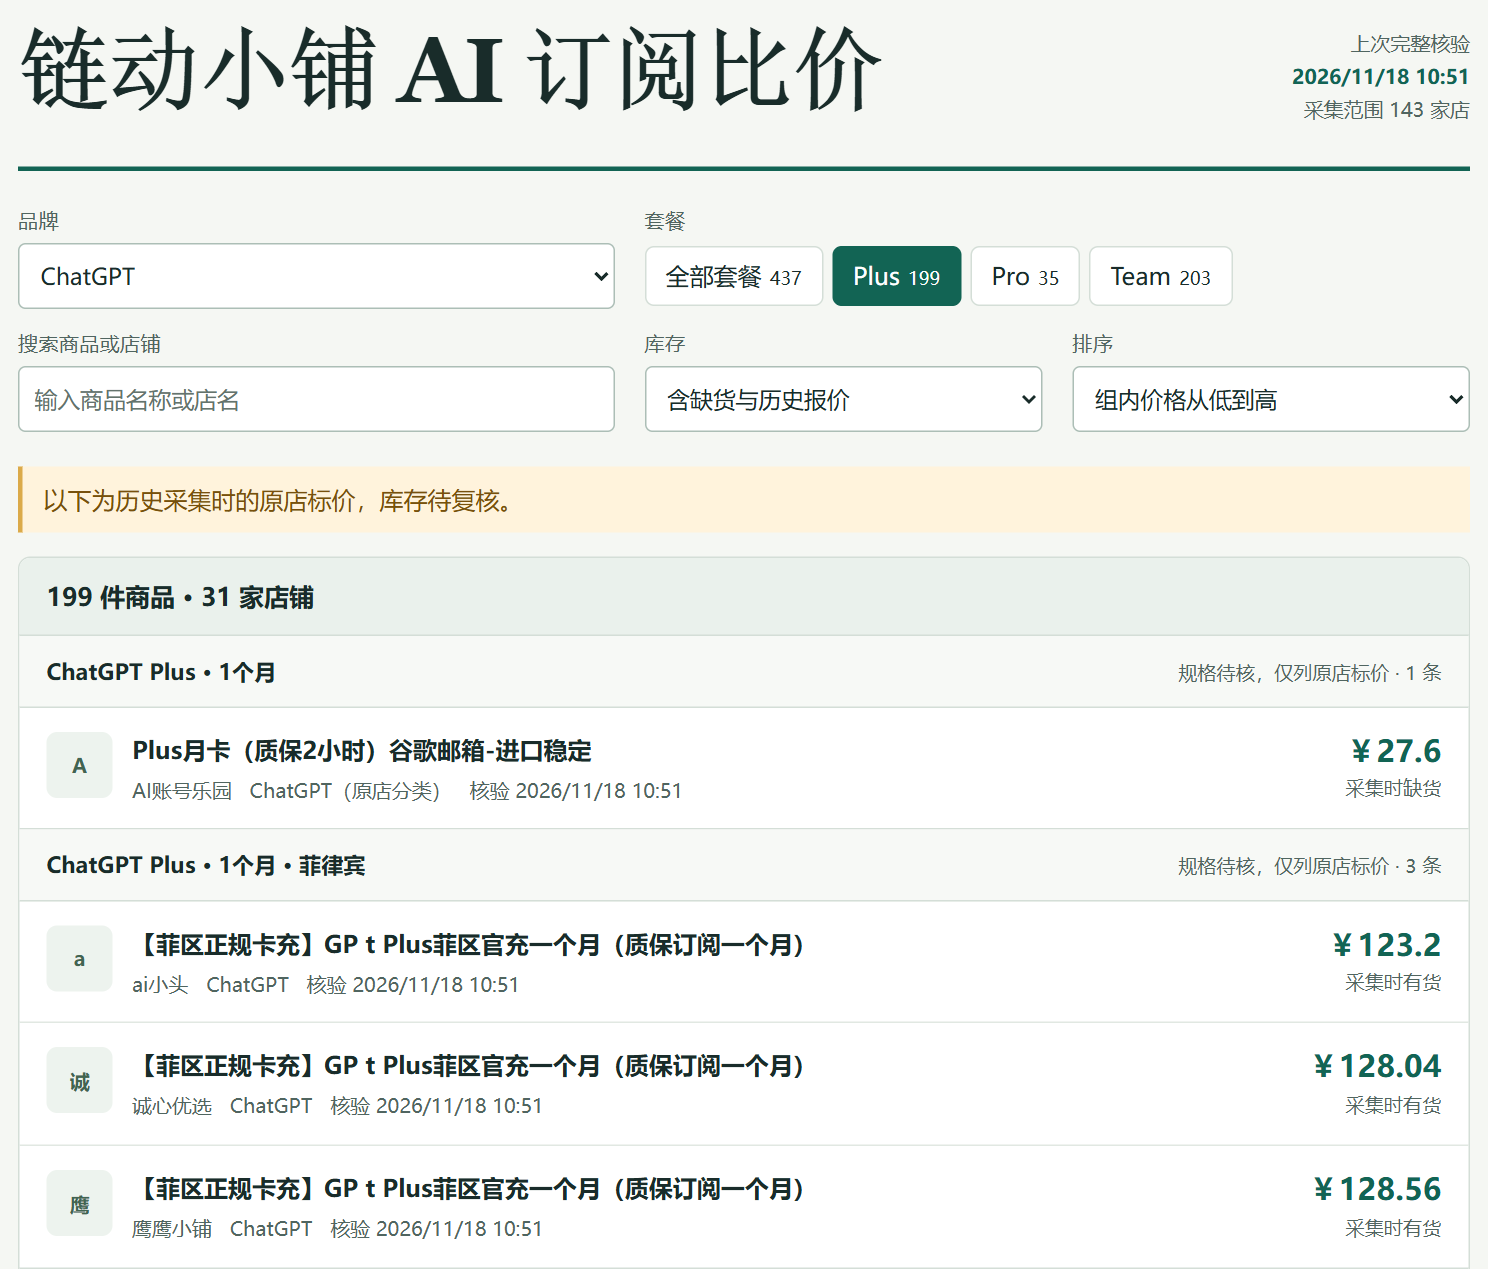
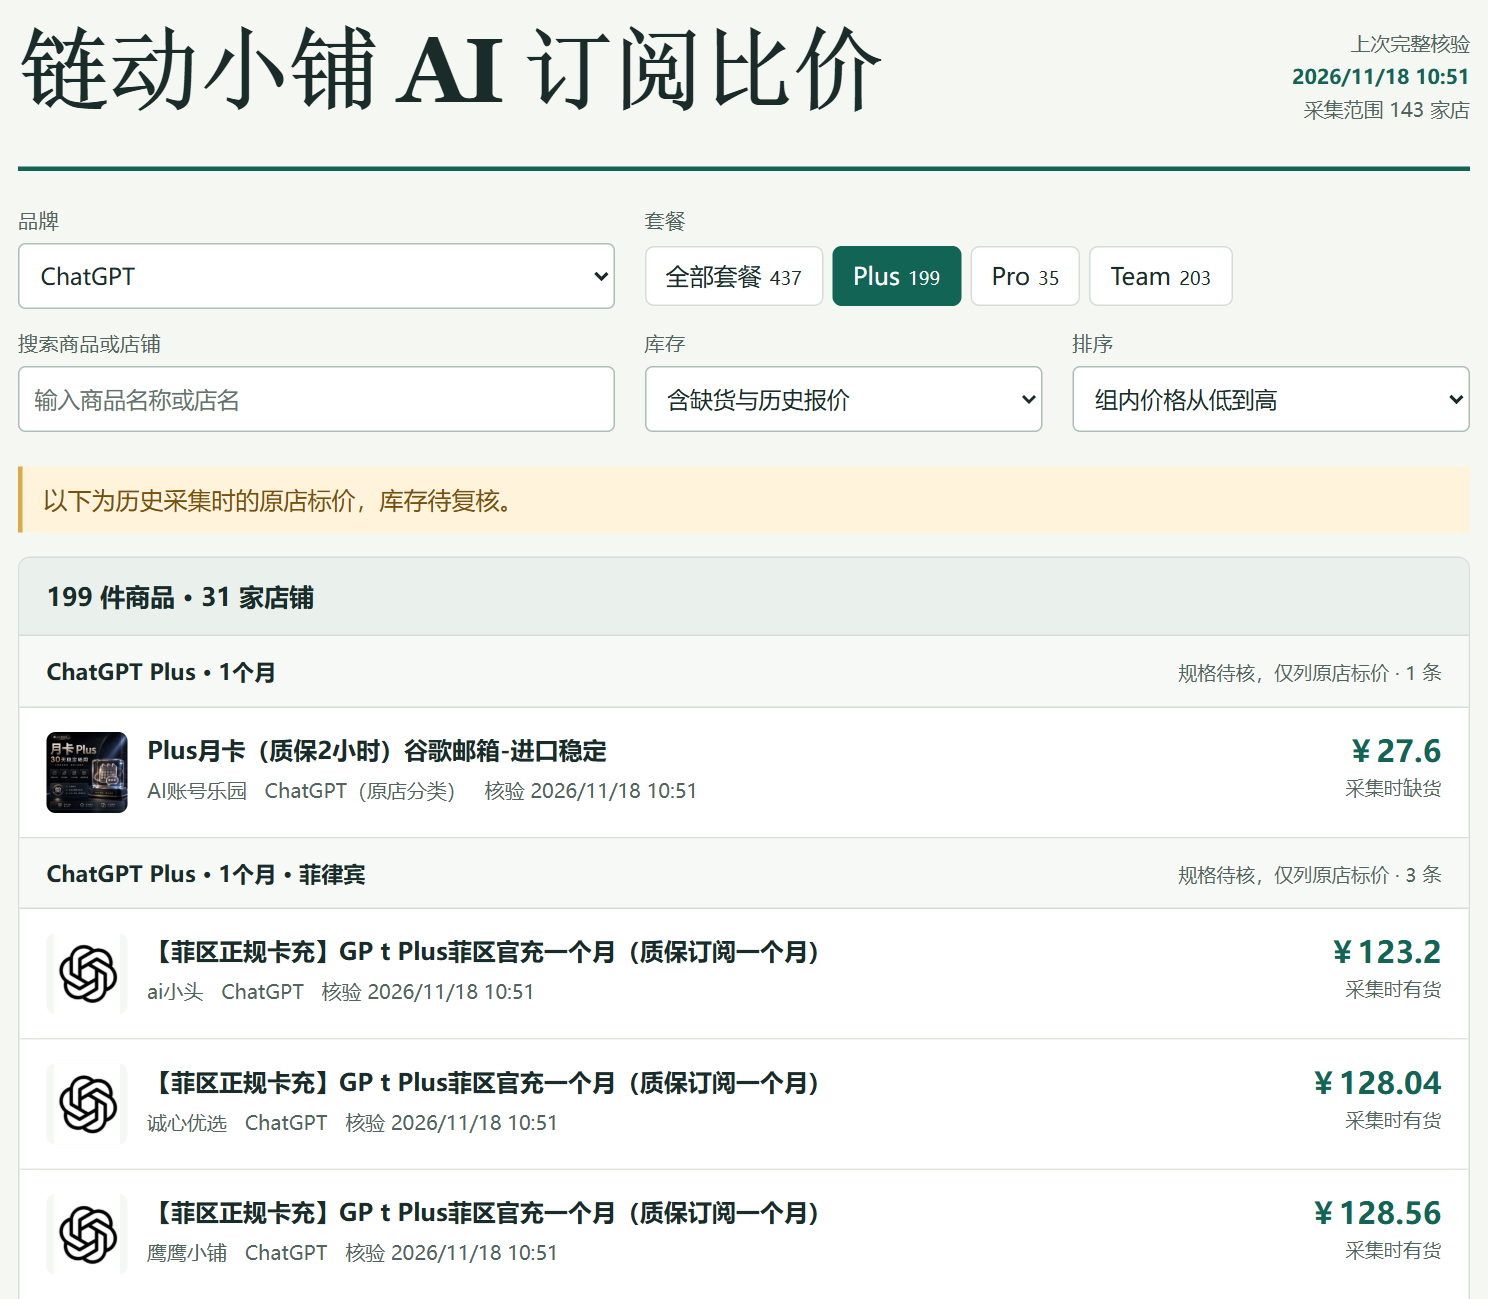
Show the observed Plus price spread and original product images

diff --git a/docs/demo.html b/docs/demo.html
@@ -5,7 +5,7 @@
   <meta name="viewport" content="width=device-width, initial-scale=1">
   <meta name="color-scheme" content="light">
   <meta name="referrer" content="no-referrer">
-  <meta http-equiv="Content-Security-Policy" content="default-src 'none'; script-src 'sha256-ZO643cE5pEGqpCYQdGrXomzEZ9VVKvLS6Y0FzKj2aZk=' 'sha256-1Ne9otCPCXiN4uFDKmmG3ICIDqDtHDYCyNCGFtEiPgg='; style-src 'sha256-+bu/IV7wrMc/Kme2MGcbqLk7O9O2+GU6b0CoQDU5uuU='; base-uri 'none'; form-action 'none'; connect-src 'none'">
+  <meta http-equiv="Content-Security-Policy" content="default-src 'none'; script-src 'sha256-4/ga//w46F/07zQa7W1VcMTDFgMuvN0MT0EpK0VVOfM=' 'sha256-1Ne9otCPCXiN4uFDKmmG3ICIDqDtHDYCyNCGFtEiPgg='; style-src 'sha256-ZVIdAD9f/VZ/cohG9BWlkn/PSxE8/9UhzEuhzIzScAs='; base-uri 'none'; form-action 'none'; connect-src 'none'">
   <title>链动小铺 AI 订阅比价</title>
   <style>:root {
   font: 16px/1.5 "DM Sans", "Microsoft YaHei", system-ui, sans-serif;
@@ -52,10 +52,10 @@ h2 { font-size: 1.04rem; }
 .group-header h3 { margin: 0; font-size: .92rem; font-weight: 650; line-height: 1.5; overflow-wrap: anywhere; }
 .group-header > span { flex-shrink: 0; max-width: 47%; font-size: .8rem; color: var(--muted); text-align: right; }
 ul { margin: 0; padding: 0; list-style: none; }
-.quote { display: grid; grid-template-columns: 44px minmax(0,1fr) max-content; align-items: start; gap: 13px; padding: 16px 18px; }
+.quote { display: grid; grid-template-columns: minmax(0,1fr) max-content; align-items: start; gap: 13px; padding: 16px 18px; }
+.quote.with-thumb { grid-template-columns: 54px minmax(0,1fr) max-content; }
 .quote + .quote { border-top: 1px solid #e1e8e2; }
-.thumb { display: grid; place-items: center; position: relative; width: 44px; height: 44px; overflow: hidden; background: #edf3ee; color: #426451; border-radius: 7px; font-size: .82rem; font-weight: 650; }
-.thumb img { position: absolute; inset: 0; width: 100%; height: 100%; object-fit: cover; }
+.thumb { display: block; width: 54px; height: 54px; object-fit: contain; border-radius: 6px; background: #f5f7f3; }
 .title { font-weight: 650; overflow-wrap: anywhere; }
 a { color: var(--green); text-underline-offset: 3px; }
 .title a { color: inherit; text-decoration: none; }
@@ -83,9 +83,11 @@ footer { margin: 18px 0 32px; color: var(--muted); font-size: .82rem; }
   .plan-option { padding: 4px 9px; }
   .group-header { padding: 10px 11px; }
   .result-header { flex-wrap: wrap; padding: 11px; }
-  .quote { grid-template-columns: 32px minmax(0, 1fr); padding: 13px 11px; gap: 4px 9px; }
-  .thumb { width: 32px; height: 32px; }
-  .numbers { grid-column: 2; display: flex; align-items: baseline; flex-wrap: wrap; gap: 8px; text-align: left; }
+  .quote { grid-template-columns: minmax(0, 1fr); padding: 13px 11px; gap: 4px 9px; }
+  .quote.with-thumb { grid-template-columns: 40px minmax(0, 1fr); }
+  .thumb { width: 40px; height: 40px; }
+  .numbers { display: flex; align-items: baseline; flex-wrap: wrap; gap: 8px; text-align: left; }
+  .with-thumb > .numbers { grid-column: 2; }
 }
 </style>
[1 lines of base64/hex data omitted]
@@ -275,17 +277,19 @@ function setPlanOptions(available, brandMatches) {
 
 function quoteRow(product, now) {
   const item = el('li', 'quote');
-  const thumb = el('span', 'thumb', (product.shopName || '店').slice(0, 1));
-  thumb.setAttribute('aria-hidden', 'true');
   const imageUrl = safeUrl(product.imageUrl, imageHosts);
   if (imageUrl) {
-    const img = el('img');
+    const img = el('img', 'thumb');
     img.alt = '';
     img.loading = 'lazy';
     img.referrerPolicy = 'no-referrer';
-    img.addEventListener('error', () => img.remove(), { once: true });
+    img.addEventListener('error', () => {
+      img.remove();
+      item.classList.remove('with-thumb');
+    }, { once: true });
+    item.classList.add('with-thumb');
+    item.append(img);
     img.src = imageUrl;
-    thumb.append(img);
   }
   const details = el('div');
   const title = el('div', 'title');
@@ -326,7 +330,7 @@ function quoteRow(product, now) {
   else if (product.inStock === false) inventory = '暂不可购';
   else inventory = '库存未知';
   numbers.append(el('span', 'price', price), el('span', 'inventory', inventory));
-  item.append(thumb, details, numbers);
+  item.append(details, numbers);
   return item;
 }
 

diff --git a/site/style.css b/site/style.css
@@ -43,10 +43,10 @@ h2 { font-size: 1.04rem; }
 .group-header h3 { margin: 0; font-size: .92rem; font-weight: 650; line-height: 1.5; overflow-wrap: anywhere; }
 .group-header > span { flex-shrink: 0; max-width: 47%; font-size: .8rem; color: var(--muted); text-align: right; }
 ul { margin: 0; padding: 0; list-style: none; }
-.quote { display: grid; grid-template-columns: 44px minmax(0,1fr) max-content; align-items: start; gap: 13px; padding: 16px 18px; }
+.quote { display: grid; grid-template-columns: minmax(0,1fr) max-content; align-items: start; gap: 13px; padding: 16px 18px; }
+.quote.with-thumb { grid-template-columns: 54px minmax(0,1fr) max-content; }
 .quote + .quote { border-top: 1px solid #e1e8e2; }
-.thumb { display: grid; place-items: center; position: relative; width: 44px; height: 44px; overflow: hidden; background: #edf3ee; color: #426451; border-radius: 7px; font-size: .82rem; font-weight: 650; }
-.thumb img { position: absolute; inset: 0; width: 100%; height: 100%; object-fit: cover; }
+.thumb { display: block; width: 54px; height: 54px; object-fit: contain; border-radius: 6px; background: #f5f7f3; }
 .title { font-weight: 650; overflow-wrap: anywhere; }
 a { color: var(--green); text-underline-offset: 3px; }
 .title a { color: inherit; text-decoration: none; }
@@ -74,7 +74,9 @@ footer { margin: 18px 0 32px; color: var(--muted); font-size: .82rem; }
   .plan-option { padding: 4px 9px; }
   .group-header { padding: 10px 11px; }
   .result-header { flex-wrap: wrap; padding: 11px; }
-  .quote { grid-template-columns: 32px minmax(0, 1fr); padding: 13px 11px; gap: 4px 9px; }
-  .thumb { width: 32px; height: 32px; }
-  .numbers { grid-column: 2; display: flex; align-items: baseline; flex-wrap: wrap; gap: 8px; text-align: left; }
+  .quote { grid-template-columns: minmax(0, 1fr); padding: 13px 11px; gap: 4px 9px; }
+  .quote.with-thumb { grid-template-columns: 40px minmax(0, 1fr); }
+  .thumb { width: 40px; height: 40px; }
+  .numbers { display: flex; align-items: baseline; flex-wrap: wrap; gap: 8px; text-align: left; }
+  .with-thumb > .numbers { grid-column: 2; }
 }

diff --git a/site/app.js b/site/app.js
@@ -108,17 +108,19 @@ function setPlanOptions(available, brandMatches) {
 
 function quoteRow(product, now) {
   const item = el('li', 'quote');
-  const thumb = el('span', 'thumb', (product.shopName || '店').slice(0, 1));
-  thumb.setAttribute('aria-hidden', 'true');
   const imageUrl = safeUrl(product.imageUrl, imageHosts);
   if (imageUrl) {
-    const img = el('img');
+    const img = el('img', 'thumb');
     img.alt = '';
     img.loading = 'lazy';
     img.referrerPolicy = 'no-referrer';
-    img.addEventListener('error', () => img.remove(), { once: true });
+    img.addEventListener('error', () => {
+      img.remove();
+      item.classList.remove('with-thumb');
+    }, { once: true });
+    item.classList.add('with-thumb');
+    item.append(img);
     img.src = imageUrl;
-    thumb.append(img);
   }
   const details = el('div');
   const title = el('div', 'title');
@@ -159,7 +161,7 @@ function quoteRow(product, now) {
   else if (product.inStock === false) inventory = '暂不可购';
   else inventory = '库存未知';
   numbers.append(el('span', 'price', price), el('span', 'inventory', inventory));
-  item.append(thumb, details, numbers);
+  item.append(details, numbers);
   return item;
 }
 

diff --git a/README.md b/README.md
@@ -2,9 +2,9 @@
 
 <h1>链动小铺 AI 订阅比价</h1>
 
-<img src="docs/media/hero.svg" width="760" alt="候选库有 535 个店铺入口。11 月 18 日定向采集覆盖 143 家店，其中 42 家有可归入 ChatGPT Plus、Pro 或 Team 的商品">
+<img src="docs/media/hero.svg" width="760" alt="买 Plus 前，先比价。2026 年 11 月 18 日，菲律宾区 Plus 一个月的同标题商品，两家店分别标价 ¥123.20 和 ¥128.56，相差 ¥5.36。">
 
-<p><strong>在链动小铺买 ChatGPT，哪家卖得便宜，哪家还有货？选 Plus、Pro 或 Team，按同一规格比较多家商户的报价。</strong></p>
+<p><strong>下次买 ChatGPT Plus、Pro 或 Team，先把链动小铺多家商户的同规格报价从低到高排一遍，看看便宜的那家还有没有货。</strong></p>
 
 <p><a href="docs/shops.md">查看 20 家试点店</a> · <a href="docs/demo.html">试用比价界面</a> · <a href="docs/chatgpt-plans.md">查看历史统计</a> · <a href="docs/operations.md">自建比价页</a></p>
 
@@ -16,9 +16,9 @@
 
 在诚心优选、玄奇仙市等链动小铺店铺之间挑套餐，光搜「Team」会碰到 5×、10× 和期限不同的席位；只看「Plus」，又容易拿月付和年付比价格。这个工具把多家商户的公开报价放到一页，保留原店标题、库存和核验时间。选好套餐就能在同规格内按价排序，也可以点商品标题回原店核对。[查看试点店铺名单及原店入口](docs/shops.md)
 
-![11 月 18 日归档的真实 Plus 报价。菲律宾一个月分类下，多家链动小铺商户的原店标价按价格排列。](docs/media/price-comparison.png)
+![11 月 18 日的 Plus 报价列表。每条报价旁显示原店商品图，三家店的菲律宾区月卡按标价从低到高排列。](docs/media/price-comparison.png)
 
-**真实报价截图，采集于 2026 年 11 月 18 日。** 三家商户当时都列出了同标题的菲律宾区 Plus 一个月商品：ai小头 ¥123.20、诚心优选 ¥128.04、鹰鹰小铺 ¥128.56。页面保留各店标价和当时的库存状态。交付条件尚未核齐，因此栏头写「仅列原店标价」；条件齐全的商品才进入「同规格比价」。
+**2026 年 11 月 18 日的真实报价。** 三家店当时都有货，菲律宾区 Plus 一个月的同标题商品在 ai小头标价 ¥123.20，诚心优选 ¥128.04，鹰鹰小铺 ¥128.56。三家用的是同一张商品图。交付条件仍待核对，页面标为「仅列原店标价」，点标题可回原店查看详情。
 
 ## 快速开始
 
